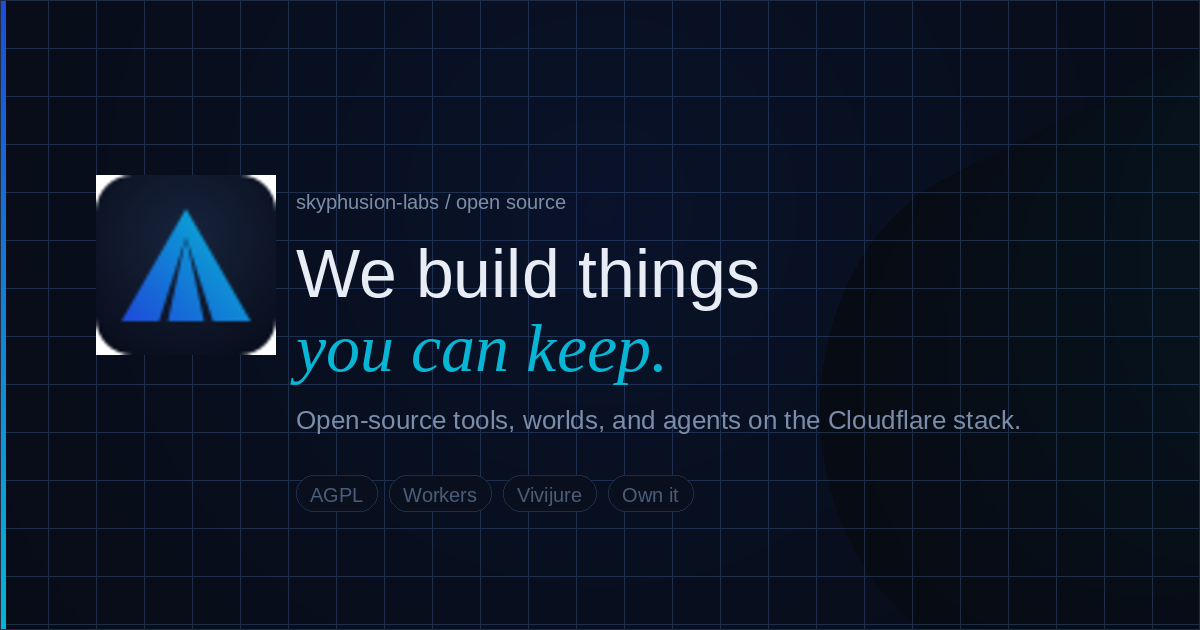
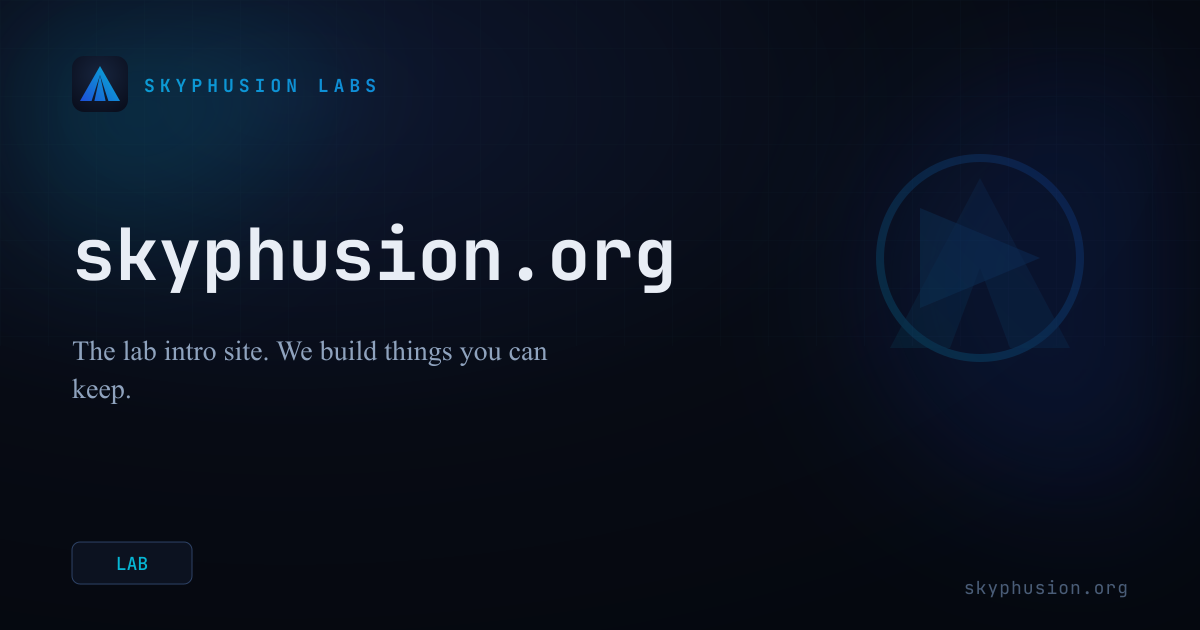
feat(seo): wire vivijure.com into identity graph and commit OG assets
Canonical Vivijure storefront is vivijure.com; welcome defers via link rel=canonical.
Adds rel=me and JSON-LD sameAs links, footer cross-links, and committed og-image.png.

Files: public/index.html, public/og-image.png

diff --git a/public/index.html b/public/index.html
@@ -17,6 +17,8 @@
   <link rel="me" href="https://github.skyphusion.org" />
   <link rel="me" href="https://github.skyphusion.net" />
   <link rel="me" href="https://x.com/skyphusion" />
+  <link rel="me" href="https://vivijure.com" />
+  <link rel="me" href="https://vivijure.skyphusion.org/welcome" />
   <meta property="og:type" content="website" />
   <meta property="og:site_name" content="Skyphusion Labs" />
   <meta property="og:title" content="Skyphusion Labs | Free AGPL open source software by Conrad Rockenhaus" />
@@ -67,6 +69,7 @@
           "https://github.skyphusion.net",
           "https://github.com/skyphusion",
           "https://x.com/skyphusion",
+          "https://vivijure.com",
           "https://vivijure.skyphusion.org/welcome"
         ]
       },
@@ -94,7 +97,7 @@
         "applicationCategory": "MultimediaApplication",
         "operatingSystem": "Cloudflare Workers",
         "description": "Free, AGPL-3.0 open source AI film studio by Conrad Rockenhaus and Skyphusion Labs. Storyboard, cast, render orchestration, swappable GPU backends, and a CPU container media stack so assembly stays off the GPU bill.",
-        "url": "https://vivijure.skyphusion.org/welcome",
+        "url": "https://vivijure.com/",
         "downloadUrl": "https://github.com/skyphusion-labs/vivijure",
         "codeRepository": "https://github.com/skyphusion-labs/vivijure",
         "author": { "@id": "https://skyphusion.org/#founder" },
@@ -153,7 +156,7 @@
         a punk DIY bar with an aviation-grade finish. No subscriptions. No account walls. Your GPU, your keys, your data.
       </p>
       <div class="hero-actions">
-        <a href="https://vivijure.skyphusion.org/welcome" class="btn btn--primary" target="_blank" rel="noopener noreferrer">
+        <a href="https://vivijure.com" class="btn btn--primary" target="_blank" rel="noopener noreferrer">
           <span class="btn-label">Meet Vivijure</span>
           <span class="btn-arrow" aria-hidden="true">→</span>
         </a>
@@ -199,7 +202,9 @@
           everything that does not need a GPU on cheap CPU containers you host
           (<a href="https://github.com/skyphusion-labs/vivijure/tree/main/containers" target="_blank" rel="noopener noreferrer">vivijure/containers</a>).
           Meet it at
-          <a href="https://vivijure.skyphusion.org/welcome" target="_blank" rel="noopener noreferrer">vivijure.skyphusion.org/welcome</a>.
+          <a href="https://vivijure.com" target="_blank" rel="noopener noreferrer">vivijure.com</a>
+          or try the
+          <a href="https://vivijure.skyphusion.org/welcome" target="_blank" rel="noopener noreferrer">welcome demo</a>.
         </p>
       </div>
 
@@ -843,7 +848,8 @@
         <a href="https://github.skyphusion.net" target="_blank" rel="noopener noreferrer">Conrad's GitHub page</a>
         <a href="https://github.com/skyphusion" target="_blank" rel="noopener noreferrer">@skyphusion</a>
         <a href="https://x.com/skyphusion" target="_blank" rel="noopener noreferrer">X</a>
-        <a href="https://vivijure.skyphusion.org/welcome" target="_blank" rel="noopener noreferrer">Vivijure</a>
+        <a href="https://vivijure.com" target="_blank" rel="noopener noreferrer">vivijure.com</a>
+        <a href="https://vivijure.skyphusion.org/welcome" target="_blank" rel="noopener noreferrer">Vivijure welcome</a>
         <a href="mailto:[email redacted]">[email redacted]</a>
       </nav>
     </div>